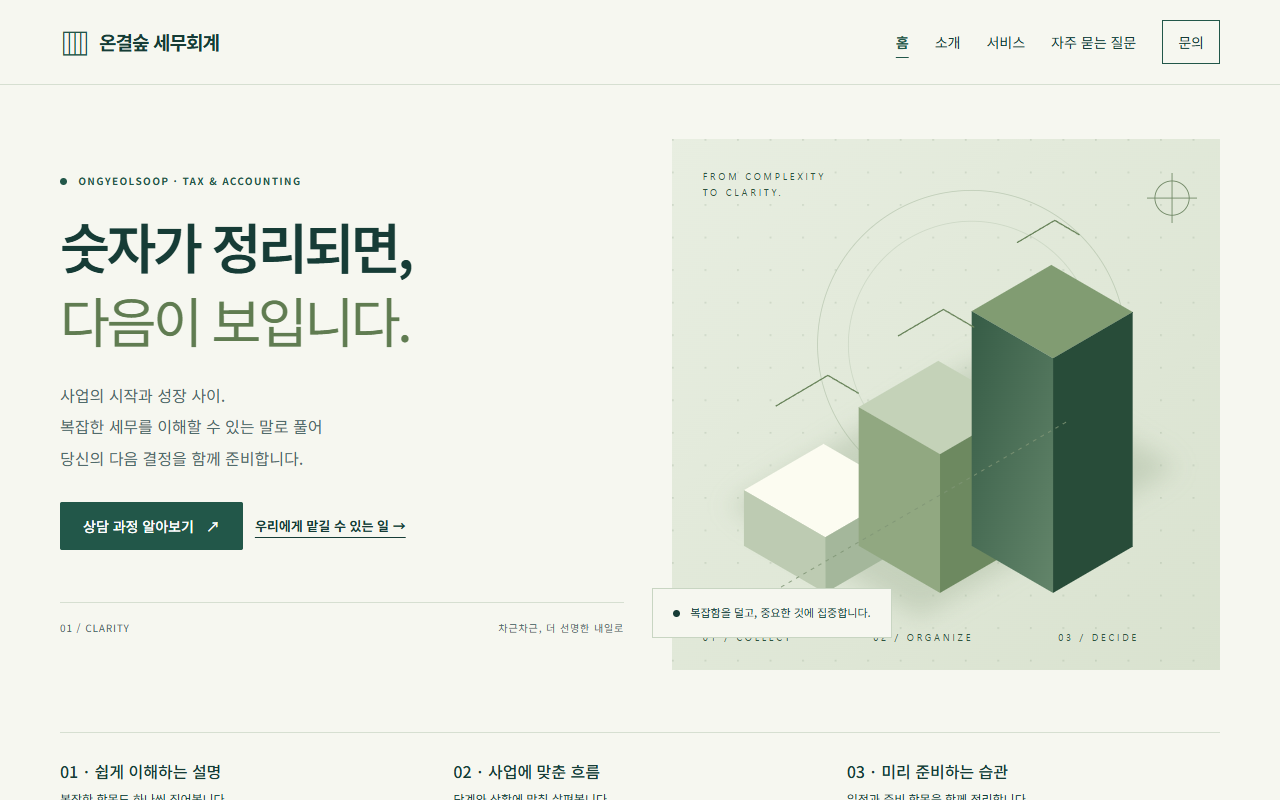
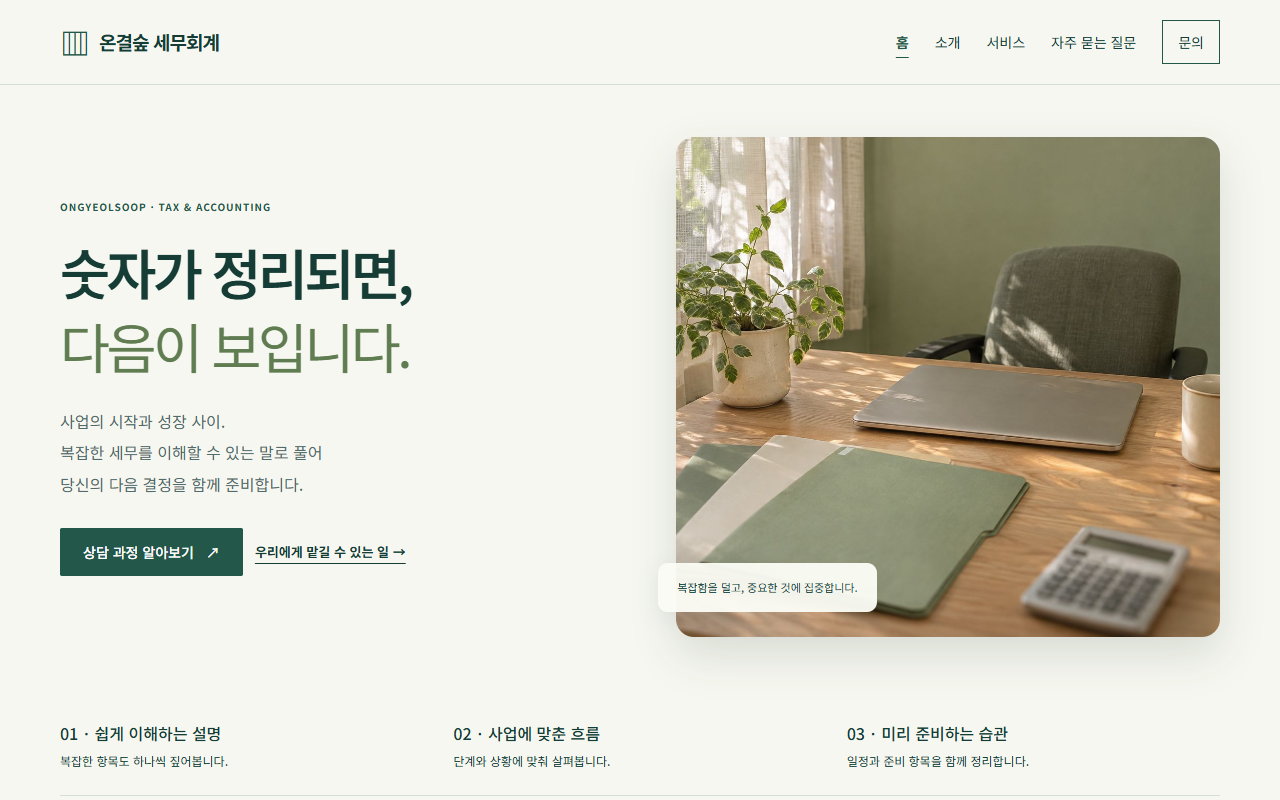
첫 화면과 소개·서비스·문의 쪽을 사진 중심으로 변경

diff --git a/tax.css b/tax.css
@@ -1,7 +1,11 @@
-.tax{--ink:#173b3c;--muted:#516b6b;--accent:#1d5550;--paper:#fdfcf8;--soft:#edf2ee;--line:#d8e0d9;--radius:4px}.tax .brand{letter-spacing:.02em}.tax nav a:last-child{border:1px solid var(--accent);padding:9px 15px}.tax-hero{display:grid;grid-template-columns:1.03fr 1fr;gap:62px;align-items:center;padding:54px 0 58px}.tax-hero h1{font-size:clamp(2.2rem,4vw,3.4rem);margin-bottom:26px}.tax-hero h1 em{font-style:normal;color:#8b7945}.tax-art{position:relative}.tax-art img{display:block;width:100%;border-radius:4px}.art-note{position:absolute;bottom:24px;left:-26px;background:var(--paper);border:1px solid var(--line);padding:17px 24px;box-shadow:0 8px 25px #173b3c10;font-size:13px}.art-note strong{display:block;letter-spacing:.12em;font-size:10px;margin-bottom:4px;color:#7a6c43}.tax-points{border-top:1px solid var(--line);border-bottom:1px solid var(--line);padding:20px 0;display:grid;grid-template-columns:repeat(3,1fr);gap:20px;font-size:12px}.tax-points strong{display:block;font-size:15px;margin-bottom:3px}.service-num{font-size:13px;letter-spacing:.1em;color:#71633c;margin-bottom:34px}.tax .panel h3{font-size:21px}.tax .panel p{font-size:14px}.text-link{font-size:13px;font-weight:700;text-decoration:underline;text-underline-offset:6px}.statement{font-size:clamp(1.8rem,3vw,2.7rem);max-width:760px;line-height:1.6;letter-spacing:-.05em}.step{padding:20px 0;border-top:1px solid var(--line)}.step strong{margin-right:20px;color:#756234}.faq-list{max-width:840px}.faq-list details{border-top:1px solid var(--line);padding:24px 0}.faq-list details:last-child{border-bottom:1px solid var(--line)}.faq-list summary{cursor:pointer;font-weight:700;font-size:17px;padding-right:20px}.faq-list details p{padding-top:18px;font-size:14px;color:var(--muted);max-width:700px}.contact-grid{display:grid;grid-template-columns:.75fr 1.2fr;gap:70px}.contact-grid aside{background:var(--soft);padding:32px;align-self:start}.contact-grid form{max-width:620px}.tax .site-footer{background:#173b3c;color:#f6f3e9}.tax .site-footer .muted{color:#c3d3cf}.wide-cta{display:flex;align-items:center;justify-content:space-between;gap:24px}.wide-cta h2{max-width:660px}@media(max-width:760px){.tax-hero{grid-template-columns:1fr;gap:32px;padding:40px 0}.tax-hero h1{font-size:2.35rem}.tax-art{max-width:500px}.art-note{left:12px;bottom:16px;padding:12px 18px}.tax-points{grid-template-columns:1fr;gap:14px}.tax-points div{padding-bottom:10px;border-bottom:1px solid var(--line)}.tax-points div:last-child{border:0;padding:0}.contact-grid{grid-template-columns:1fr;gap:32px}.wide-cta{align-items:start;flex-direction:column}.tax nav a:last-child{padding:0;border:0}}
+.tax{--ink:#173b3c;--muted:#516b6b;--accent:#1d5550;--paper:#fdfcf8;--soft:#edf2ee;--line:#d8e0d9;--radius:4px}.tax .brand{letter-spacing:.02em}.tax nav a:last-child{border:1px solid var(--accent);padding:9px 15px}.tax-hero{display:grid;grid-template-columns:1.03fr 1fr;gap:62px;align-items:center;padding:54px 0 58px}.tax-hero h1{font-size:clamp(2.2rem,4vw,3.4rem);margin-bottom:26px}.tax-hero h1 em{font-style:normal;color:#8b7945}.tax-photo{position:relative}.tax-photo img{display:block;width:100%;border-radius:4px}.art-note{position:absolute;bottom:24px;left:-26px;background:var(--paper);border:1px solid var(--line);padding:17px 24px;box-shadow:0 8px 25px #173b3c10;font-size:13px}.art-note strong{display:block;letter-spacing:.12em;font-size:10px;margin-bottom:4px;color:#7a6c43}.tax-points{border-top:1px solid var(--line);border-bottom:1px solid var(--line);padding:20px 0;display:grid;grid-template-columns:repeat(3,1fr);gap:20px;font-size:12px}.tax-points strong{display:block;font-size:15px;margin-bottom:3px}.service-num{font-size:13px;letter-spacing:.1em;color:#71633c;margin-bottom:34px}.tax .panel h3{font-size:21px}.tax .panel p{font-size:14px}.text-link{font-size:13px;font-weight:700;text-decoration:underline;text-underline-offset:6px}.statement{font-size:clamp(1.8rem,3vw,2.7rem);max-width:760px;line-height:1.6;letter-spacing:-.05em}.step{padding:20px 0;border-top:1px solid var(--line)}.step strong{margin-right:20px;color:#756234}.faq-list{max-width:840px}.faq-list details{border-top:1px solid var(--line);padding:24px 0}.faq-list details:last-child{border-bottom:1px solid var(--line)}.faq-list summary{cursor:pointer;font-weight:700;font-size:17px;padding-right:20px}.faq-list details p{padding-top:18px;font-size:14px;color:var(--muted);max-width:700px}.contact-grid{display:grid;grid-template-columns:.75fr 1.2fr;gap:70px}.contact-grid aside{background:var(--soft);padding:32px;align-self:start}.contact-grid form{max-width:620px}.tax .site-footer{background:#173b3c;color:#f6f3e9}.tax .site-footer .muted{color:#c3d3cf}.wide-cta{display:flex;align-items:center;justify-content:space-between;gap:24px}.wide-cta h2{max-width:660px}@media(max-width:760px){.tax-hero{grid-template-columns:1fr;gap:32px;padding:40px 0}.tax-hero h1{font-size:2.35rem}.tax-photo{max-width:500px}.art-note{left:12px;bottom:16px;padding:12px 18px}.tax-points{grid-template-columns:1fr;gap:14px}.tax-points div{padding-bottom:10px;border-bottom:1px solid var(--line)}.tax-points div:last-child{border:0;padding:0}.contact-grid{grid-template-columns:1fr;gap:32px}.wide-cta{align-items:start;flex-direction:column}.tax nav a:last-child{padding:0;border:0}}
 
-.tax{--ink:#163c36;--accent:#225749;--paper:#f6f7f0;--soft:#e8eee5;--line:#d6dfd1;--radius:2px}.tax .brand{font-weight:700;letter-spacing:-.05em}.tax-hero{grid-template-columns:1.03fr 1fr;gap:48px;padding:54px 0 62px;min-height:620px}.tax-hero h1{font-size:clamp(34px,4.25vw,56px);font-weight:600;line-height:1.35;letter-spacing:-.065em;margin-bottom:24px}.tax-hero h1 em{color:#607c51;font-weight:400}.tax-art{align-self:stretch;display:flex;align-items:center;min-width:0}.tax-art img{width:100%;border-radius:0}.tax .art-note{left:-20px;bottom:32px;background:#f6f7f0;padding:14px 20px;box-shadow:none;border:1px solid #c8d5c2;font-size:11px}.tax .btn{border-radius:2px;font-weight:500}.tax .tax-points{grid-template-columns:repeat(3,1fr);padding:24px 0}.tax .tax-points strong{font-size:16px;font-weight:500}.tax .service-num{font-family:Georgia,serif;font-size:42px;margin-bottom:25px;color:#6a8263}.tax .card{border-radius:2px;box-shadow:none;border-color:var(--line);padding:32px}.tax .card h3{font-weight:500;font-size:23px}.tax .section-head h2{font-weight:500}.tax .section.soft{background:#e8eee5}.tax .site-footer{background:#173d35;color:#f6f7f0}.tax .site-footer .muted{color:#bfd0c2}.tax .site-footer .brand{color:#fff}.tax .eyebrow{font-size:10px;letter-spacing:.14em}.tax .nav-toggle{border-color:#7c9481}.tax .contact-aside{border-radius:0}
+.tax{--ink:#163c36;--accent:#225749;--paper:#f6f7f0;--soft:#e8eee5;--line:#d6dfd1;--radius:2px}.tax .brand{font-weight:700;letter-spacing:-.05em}.tax-hero{grid-template-columns:1.03fr 1fr;gap:48px;padding:54px 0 62px;min-height:620px}.tax-hero h1{font-size:clamp(34px,4.25vw,56px);font-weight:600;line-height:1.35;letter-spacing:-.065em;margin-bottom:24px}.tax-hero h1 em{color:#607c51;font-weight:400}.tax-photo{align-self:stretch;display:flex;align-items:center;min-width:0}.tax-photo img{width:100%;border-radius:0}.tax .art-note{left:-20px;bottom:32px;background:#f6f7f0;padding:14px 20px;box-shadow:none;border:1px solid #c8d5c2;font-size:11px}.tax .btn{border-radius:2px;font-weight:500}.tax .tax-points{grid-template-columns:repeat(3,1fr);padding:24px 0}.tax .tax-points strong{font-size:16px;font-weight:500}.tax .service-num{font-family:Georgia,serif;font-size:42px;margin-bottom:25px;color:#6a8263}.tax .card{border-radius:2px;box-shadow:none;border-color:var(--line);padding:32px}.tax .card h3{font-weight:500;font-size:23px}.tax .section-head h2{font-weight:500}.tax .section.soft{background:#e8eee5}.tax .site-footer{background:#173d35;color:#f6f7f0}.tax .site-footer .muted{color:#bfd0c2}.tax .site-footer .brand{color:#fff}.tax .eyebrow{font-size:10px;letter-spacing:.14em}.tax .nav-toggle{border-color:#7c9481}.tax .contact-aside{border-radius:0}
 @media(max-width:900px){.tax-hero{gap:24px}.tax-hero h1{font-size:42px}.tax .art-note{left:-8px;font-size:10px;padding:10px}.tax .hero-index{display:block}.tax .hero-index span{display:block}}
-@media(max-width:760px){.tax-hero{grid-template-columns:1fr;gap:18px;padding:40px 0 28px;min-height:0}.tax-hero h1{font-size:37px;line-height:1.4}.tax-hero .lead br{display:none}.tax .hero-index{display:none}.tax-art{max-width:100%;width:100%;height:325px}.tax-art img{height:325px;object-fit:cover}.tax .art-note{bottom:6px;left:12px;max-width:calc(100% - 24px)}.tax .tax-points{grid-template-columns:1fr;gap:14px}.tax .card{padding:25px}.tax .actions{margin-top:24px;gap:20px}.tax .btn{font-size:12px}.tax .eyebrow{font-size:9px}}
+@media(max-width:760px){.tax-hero{grid-template-columns:1fr;gap:18px;padding:40px 0 28px;min-height:0}.tax-hero h1{font-size:37px;line-height:1.4}.tax-hero .lead br{display:none}.tax .hero-index{display:none}.tax-photo{max-width:100%;width:100%;height:325px}.tax-photo img{height:325px;object-fit:cover}.tax .art-note{bottom:6px;left:12px;max-width:calc(100% - 24px)}.tax .tax-points{grid-template-columns:1fr;gap:14px}.tax .card{padding:25px}.tax .actions{margin-top:24px;gap:20px}.tax .btn{font-size:12px}.tax .eyebrow{font-size:9px}}
 
 .tax .service-num{display:flex;align-items:center;gap:18px;font-size:38px;letter-spacing:0}.tax .service-label{font-family:Arial,sans-serif;font-size:10px;letter-spacing:.13em}.tax .panel{min-width:0}
+
+.tax-hero{gap:56px;min-height:610px;padding:48px 0 54px}.tax-photo{position:relative;display:block;align-self:center;min-width:0}.tax-photo .hero-photo{display:block;width:100%;height:500px;object-fit:cover;object-position:52% 52%;border-radius:18px;box-shadow:0 18px 42px #1b362623}.tax .art-note{left:-18px;bottom:25px;max-width:92%;background:#fbfcf5f5;border:0;border-radius:10px;padding:15px 19px;box-shadow:0 6px 22px #173b3c12}.page-photo{margin:0 auto}.page-photo img{display:block;width:100%;height:380px;object-fit:cover;object-position:center;border-radius:16px;box-shadow:0 8px 28px #173b3c0e}.page-photo.contact-photo img{height:340px;object-position:center 56%}.page-photo.services-photo img{object-position:center 52%}.tax .tax-points{border-top:0}.tax .eyebrow{letter-spacing:.1em}
+@media(max-width:900px){.tax-hero{gap:28px}.tax-photo .hero-photo{height:465px}}
+@media(max-width:760px){.tax-hero{padding:32px 0 30px;gap:26px;min-height:0}.tax-photo{width:100%;height:auto;max-width:none}.tax-photo .hero-photo{height:315px;border-radius:14px;object-position:55% center}.tax .art-note{left:13px;bottom:14px;max-width:calc(100% - 26px);font-size:10px;padding:12px 14px}.page-photo img,.page-photo.contact-photo img{height:240px;border-radius:12px}.page-photo.services-photo img{object-position:65% center}}

diff --git a/contact.html b/contact.html
@@ -1,3 +1,3 @@
 <!doctype html>
 <html lang="ko"><head><meta charset="utf-8"><meta name="viewport" content="width=device-width,initial-scale=1"><title>문의 과정 체험 | 온결숲 세무회계</title><meta name="description" content="온결숲 세무회계. 사무소 소개·서비스·자주 묻는 질문과 문의 안내."><meta property="og:title" content="문의 과정 체험 | 온결숲 세무회계"><meta property="og:description" content="온결숲 세무회계. 사무소 소개·서비스·자주 묻는 질문과 문의 안내."><meta property="og:type" content="website"><meta property="og:locale" content="ko_KR"><meta property="og:image" content="thumb.png"><meta property="og:image:width" content="1280"><meta property="og:image:height" content="800"><link rel="icon" href="assets/mark.svg" type="image/svg+xml"><link rel="stylesheet" href="assets/base.css"><link rel="stylesheet" href="tax.css"><script defer src="assets/common.js"></script><script defer src="tax.js"></script><link rel="preconnect" href="https://fonts.googleapis.com"><link rel="preconnect" href="https://fonts.gstatic.com" crossorigin><link href="https://fonts.googleapis.com/css2?family=Noto+Sans+KR:wght@400;500;600;700;800;900&display=swap" rel="stylesheet"></head>
-<body class="tax"><a class="skip" href="#main">본문으로 건너뛰기</a><header class="site-header"><div class="wrap header-inner"><a class="brand" href="index.html"><span class="brand-mark" aria-hidden="true">▥</span>온결숲 세무회계</a><button class="nav-toggle" aria-expanded="false" aria-controls="site-nav" type="button">메뉴</button><nav id="site-nav" aria-label="주 메뉴"><a href="index.html">홈</a><a href="about.html">소개</a><a href="services.html">서비스</a><a href="faq.html">자주 묻는 질문</a><a href="contact.html" aria-current="page">문의</a></nav></div></header><main id="main"><section class="page-intro wrap"><p class="eyebrow">CONTACT</p><h1>첫 질문을 남기는 곳.</h1><p class="lead">아래는 문의 과정을 보여주는 체험 화면입니다.<br>실제 개인정보 대신 표시된 예시를 사용해 주세요.</p></section><section class="section wrap contact-grid"><aside><h2>차분하게,<br>하나씩.</h2><p>주제를 고르고 예시 내용을 넣으면 문의 화면의 동작을 확인할 수 있습니다.</p><hr class="divider"><p class="small">전화 02-000-0000<br>메일 hello@example.com<br>주소 서울시 ○○구 (샘플)</p><p class="small muted">모두 가짜 연락처이며 연결되지 않습니다.</p></aside><div><p class="notice">실제 이름·연락처·사업 자료를 입력하지 마세요. 내용은 저장하거나 전송하지 않습니다.</p><form id="contact-form" novalidate><label class="field">체험용 이름<input name="nickname" required value="샘플 방문자" maxlength="30" autocomplete="off" aria-describedby="name-help"></label><p class="small muted" id="name-help">가상 이름만 사용해 주세요.</p><label class="field">체험용 이메일<input name="email" type="email" required value="hello@example.com" autocomplete="off" maxlength="100"></label><label class="field">문의 주제<select name="topic" required><option value="">주제를 선택해 주세요</option><option>개업 안내</option><option>기장 안내</option><option>사업 점검</option></select></label><label class="field">예시 문의 내용<textarea name="message" required minlength="5" maxlength="1000" rows="5" placeholder="예: 기장 서비스의 진행 과정이 궁금합니다."></textarea></label><div class="hp" aria-hidden="true"><label>웹사이트 주소 (비워 두세요)<input name="website" tabindex="-1" autocomplete="off"></label></div><label class="check"><input name="consent" type="checkbox" required><span>실제 전송이 없는 데모 화면임을 확인했습니다.</span></label><div class="actions"><button class="btn" type="submit">문의 과정 체험하기 ↗</button><button class="btn outline" type="button" id="fill-example">예시 채우기</button></div><p id="form-result" class="status" role="status" tabindex="-1" hidden></p></form></div></section></main><footer class="site-footer"><div class="wrap"><div class="footer-row"><a class="brand" href="index.html">온결숲 세무회계</a></div><p>포트폴리오 샘플 · 가상 업체입니다</p><p class="muted small">전화 02-000-0000 · hello@example.com · 서울시 ○○구 (샘플)</p></div></footer><div class="toast" id="toast" role="status" aria-live="polite" hidden></div></body></html>
+<body class="tax"><a class="skip" href="#main">본문으로 건너뛰기</a><header class="site-header"><div class="wrap header-inner"><a class="brand" href="index.html"><span class="brand-mark" aria-hidden="true">▥</span>온결숲 세무회계</a><button class="nav-toggle" aria-expanded="false" aria-controls="site-nav" type="button">메뉴</button><nav id="site-nav" aria-label="주 메뉴"><a href="index.html">홈</a><a href="about.html">소개</a><a href="services.html">서비스</a><a href="faq.html">자주 묻는 질문</a><a href="contact.html" aria-current="page">문의</a></nav></div></header><main id="main"><section class="page-intro wrap"><p class="eyebrow">CONTACT</p><h1>첫 질문을 남기는 곳.</h1><p class="lead">아래는 문의 과정을 보여주는 체험 화면입니다.<br>실제 개인정보 대신 표시된 예시를 사용해 주세요.</p></section><figure class="wrap page-photo contact-photo"><img src="images/contact.jpg" width="1536" height="1024" alt="밝은 유리 출입문 옆 의자와 화분이 놓인 대기 공간" loading="lazy"></figure><section class="section wrap contact-grid"><aside><h2>차분하게,<br>하나씩.</h2><p>주제를 고르고 예시 내용을 넣으면 문의 화면의 동작을 확인할 수 있습니다.</p><hr class="divider"><p class="small">전화 02-000-0000<br>메일 hello@example.com<br>주소 서울시 ○○구 (샘플)</p><p class="small muted">모두 가짜 연락처이며 연결되지 않습니다.</p></aside><div><p class="notice">실제 이름·연락처·사업 자료를 입력하지 마세요. 내용은 저장하거나 전송하지 않습니다.</p><form id="contact-form" novalidate><label class="field">체험용 이름<input name="nickname" required value="샘플 방문자" maxlength="30" autocomplete="off" aria-describedby="name-help"></label><p class="small muted" id="name-help">가상 이름만 사용해 주세요.</p><label class="field">체험용 이메일<input name="email" type="email" required value="hello@example.com" autocomplete="off" maxlength="100"></label><label class="field">문의 주제<select name="topic" required><option value="">주제를 선택해 주세요</option><option>개업 안내</option><option>기장 안내</option><option>사업 점검</option></select></label><label class="field">예시 문의 내용<textarea name="message" required minlength="5" maxlength="1000" rows="5" placeholder="예: 기장 서비스의 진행 과정이 궁금합니다."></textarea></label><div class="hp" aria-hidden="true"><label>웹사이트 주소 (비워 두세요)<input name="website" tabindex="-1" autocomplete="off"></label></div><label class="check"><input name="consent" type="checkbox" required><span>실제 전송이 없는 데모 화면임을 확인했습니다.</span></label><div class="actions"><button class="btn" type="submit">문의 과정 체험하기 ↗</button><button class="btn outline" type="button" id="fill-example">예시 채우기</button></div><p id="form-result" class="status" role="status" tabindex="-1" hidden></p></form></div></section></main><footer class="site-footer"><div class="wrap"><div class="footer-row"><a class="brand" href="index.html">온결숲 세무회계</a></div><p>포트폴리오 샘플 · 가상 업체입니다</p><p class="muted small">전화 02-000-0000 · hello@example.com · 서울시 ○○구 (샘플)</p></div></footer><div class="toast" id="toast" role="status" aria-live="polite" hidden></div></body></html>

diff --git a/services.html b/services.html
@@ -1,3 +1,3 @@
 <!doctype html>
 <html lang="ko"><head><meta charset="utf-8"><meta name="viewport" content="width=device-width,initial-scale=1"><title>서비스 안내 | 온결숲 세무회계</title><meta name="description" content="온결숲 세무회계. 사무소 소개·서비스·자주 묻는 질문과 문의 안내."><meta property="og:title" content="서비스 안내 | 온결숲 세무회계"><meta property="og:description" content="온결숲 세무회계. 사무소 소개·서비스·자주 묻는 질문과 문의 안내."><meta property="og:type" content="website"><meta property="og:locale" content="ko_KR"><meta property="og:image" content="thumb.png"><meta property="og:image:width" content="1280"><meta property="og:image:height" content="800"><link rel="icon" href="assets/mark.svg" type="image/svg+xml"><link rel="stylesheet" href="assets/base.css"><link rel="stylesheet" href="tax.css"><script defer src="assets/common.js"></script><link rel="preconnect" href="https://fonts.googleapis.com"><link rel="preconnect" href="https://fonts.gstatic.com" crossorigin><link href="https://fonts.googleapis.com/css2?family=Noto+Sans+KR:wght@400;500;600;700;800;900&display=swap" rel="stylesheet"></head>
-<body class="tax"><a class="skip" href="#main">본문으로 건너뛰기</a><header class="site-header"><div class="wrap header-inner"><a class="brand" href="index.html"><span class="brand-mark" aria-hidden="true">▥</span>온결숲 세무회계</a><button class="nav-toggle" aria-expanded="false" aria-controls="site-nav" type="button">메뉴</button><nav id="site-nav" aria-label="주 메뉴"><a href="index.html">홈</a><a href="about.html">소개</a><a href="services.html" aria-current="page">서비스</a><a href="faq.html">자주 묻는 질문</a><a href="contact.html">문의</a></nav></div></header><main id="main"><section class="page-intro wrap"><p class="eyebrow">SERVICES</p><h1>사업의 단계에 맞게,<br>필요한 것부터 차근차근.</h1><p class="lead">아래 내용은 웹사이트 구성을 보여주는 예시입니다. 실제 세무 자문이나 업무 제공 안내가 아닙니다.</p></section><section class="section wrap"><div class="grid three"><article id="start" class="panel"><p class="service-num">01 / FOUNDATION</p><h2>개업 안내</h2><p>첫 준비가 막막할 때</p><ul><li>사업 형태 관련 질문 정리</li><li>시작 단계의 준비 목록 안내</li><li>기록과 증빙 관리 흐름 소개</li></ul><a href="contact.html" class="text-link">문의 과정 체험 ↗</a></article><article id="routine" class="panel"><p class="service-num">02 / ROUTINE</p><h2>기장 안내</h2><p>꾸준한 관리가 필요할 때</p><ul><li>월별 자료 정리 과정 소개</li><li>일정 확인 흐름 안내</li><li>사업 기록 검토 방식 소개</li></ul><a href="contact.html" class="text-link">문의 과정 체험 ↗</a></article><article id="review" class="panel"><p class="service-num">03 / NEXT STEP</p><h2>사업 점검</h2><p>변화를 앞두고 있을 때</p><ul><li>현재 기록의 확인 목록 정리</li><li>변경 사항에 관한 질문 수집</li><li>다음 단계 준비 과정 소개</li></ul><a href="contact.html" class="text-link">문의 과정 체험 ↗</a></article></div></section><section class="section soft"><div class="wrap"><h2>준비할 것이 궁금하신가요?</h2><p>자주 묻는 질문에서 일반적인 진행 과정을 살펴보세요.</p><a class="btn" href="faq.html">자주 묻는 질문 보기 ↗</a></div></section></main><footer class="site-footer"><div class="wrap"><div class="footer-row"><a class="brand" href="index.html">온결숲 세무회계</a></div><p>포트폴리오 샘플 · 가상 업체입니다</p><p class="muted small">전화 02-000-0000 · hello@example.com · 서울시 ○○구 (샘플)</p></div></footer><div class="toast" id="toast" role="status" aria-live="polite" hidden></div></body></html>
+<body class="tax"><a class="skip" href="#main">본문으로 건너뛰기</a><header class="site-header"><div class="wrap header-inner"><a class="brand" href="index.html"><span class="brand-mark" aria-hidden="true">▥</span>온결숲 세무회계</a><button class="nav-toggle" aria-expanded="false" aria-controls="site-nav" type="button">메뉴</button><nav id="site-nav" aria-label="주 메뉴"><a href="index.html">홈</a><a href="about.html">소개</a><a href="services.html" aria-current="page">서비스</a><a href="faq.html">자주 묻는 질문</a><a href="contact.html">문의</a></nav></div></header><main id="main"><section class="page-intro wrap"><p class="eyebrow">SERVICES</p><h1>사업의 단계에 맞게,<br>필요한 것부터 차근차근.</h1><p class="lead">아래 내용은 웹사이트 구성을 보여주는 예시입니다. 실제 세무 자문이나 업무 제공 안내가 아닙니다.</p></section><figure class="wrap page-photo services-photo"><img src="images/services.jpg" width="1536" height="1024" alt="서류와 영수증을 정리하는 손이 놓인 책상" loading="lazy"></figure><section class="section wrap"><div class="grid three"><article id="start" class="panel"><p class="service-num">01 / FOUNDATION</p><h2>개업 안내</h2><p>첫 준비가 막막할 때</p><ul><li>사업 형태 관련 질문 정리</li><li>시작 단계의 준비 목록 안내</li><li>기록과 증빙 관리 흐름 소개</li></ul><a href="contact.html" class="text-link">문의 과정 체험 ↗</a></article><article id="routine" class="panel"><p class="service-num">02 / ROUTINE</p><h2>기장 안내</h2><p>꾸준한 관리가 필요할 때</p><ul><li>월별 자료 정리 과정 소개</li><li>일정 확인 흐름 안내</li><li>사업 기록 검토 방식 소개</li></ul><a href="contact.html" class="text-link">문의 과정 체험 ↗</a></article><article id="review" class="panel"><p class="service-num">03 / NEXT STEP</p><h2>사업 점검</h2><p>변화를 앞두고 있을 때</p><ul><li>현재 기록의 확인 목록 정리</li><li>변경 사항에 관한 질문 수집</li><li>다음 단계 준비 과정 소개</li></ul><a href="contact.html" class="text-link">문의 과정 체험 ↗</a></article></div></section><section class="section soft"><div class="wrap"><h2>준비할 것이 궁금하신가요?</h2><p>자주 묻는 질문에서 일반적인 진행 과정을 살펴보세요.</p><a class="btn" href="faq.html">자주 묻는 질문 보기 ↗</a></div></section></main><footer class="site-footer"><div class="wrap"><div class="footer-row"><a class="brand" href="index.html">온결숲 세무회계</a></div><p>포트폴리오 샘플 · 가상 업체입니다</p><p class="muted small">전화 02-000-0000 · hello@example.com · 서울시 ○○구 (샘플)</p></div></footer><div class="toast" id="toast" role="status" aria-live="polite" hidden></div></body></html>

diff --git a/about.html b/about.html
@@ -1,3 +1,3 @@
 <!doctype html>
 <html lang="ko"><head><meta charset="utf-8"><meta name="viewport" content="width=device-width,initial-scale=1"><title>사무소 소개 | 온결숲 세무회계</title><meta name="description" content="온결숲 세무회계. 사무소 소개·서비스·자주 묻는 질문과 문의 안내."><meta property="og:title" content="사무소 소개 | 온결숲 세무회계"><meta property="og:description" content="온결숲 세무회계. 사무소 소개·서비스·자주 묻는 질문과 문의 안내."><meta property="og:type" content="website"><meta property="og:locale" content="ko_KR"><meta property="og:image" content="thumb.png"><meta property="og:image:width" content="1280"><meta property="og:image:height" content="800"><link rel="icon" href="assets/mark.svg" type="image/svg+xml"><link rel="stylesheet" href="assets/base.css"><link rel="stylesheet" href="tax.css"><script defer src="assets/common.js"></script><link rel="preconnect" href="https://fonts.googleapis.com"><link rel="preconnect" href="https://fonts.gstatic.com" crossorigin><link href="https://fonts.googleapis.com/css2?family=Noto+Sans+KR:wght@400;500;600;700;800;900&display=swap" rel="stylesheet"></head>
-<body class="tax"><a class="skip" href="#main">본문으로 건너뛰기</a><header class="site-header"><div class="wrap header-inner"><a class="brand" href="index.html"><span class="brand-mark" aria-hidden="true">▥</span>온결숲 세무회계</a><button class="nav-toggle" aria-expanded="false" aria-controls="site-nav" type="button">메뉴</button><nav id="site-nav" aria-label="주 메뉴"><a href="index.html">홈</a><a href="about.html" aria-current="page">소개</a><a href="services.html">서비스</a><a href="faq.html">자주 묻는 질문</a><a href="contact.html">문의</a></nav></div></header><main id="main"><section class="page-intro wrap"><p class="eyebrow">ABOUT US</p><h1>알기 쉬운 설명,<br>차분하게 쌓이는 신뢰.</h1><p class="lead">온결숲은 복잡한 기록을 하나의 흐름으로 정리한다는 생각에서 출발한 가상 세무회계 브랜드입니다.</p></section><section class="section soft"><div class="wrap"><p class="statement">숫자만 전달하기보다<br>그 숫자가 만들어진 이유를<br>함께 이해하는 시간을 생각합니다.</p><div class="grid three"><article class="panel"><h3>먼저 듣습니다</h3><p>사업의 단계, 궁금한 점, 필요한 업무의 범위를 먼저 확인합니다.</p></article><article class="panel"><h3>명료하게 정리합니다</h3><p>필요한 준비 항목과 진행 순서를 나누어 안내하는 방식을 제안합니다.</p></article><article class="panel"><h3>기록을 남깁니다</h3><p>다음에 다시 살펴볼 수 있도록 질문과 답을 한곳에 정리합니다.</p></article></div></div></section><section class="section wrap"><p class="eyebrow">HOW WE WORK</p><h2>함께 살펴보는 순서</h2><div class="step"><strong>01</strong>궁금한 점과 현재 상황 정리</div><div class="step"><strong>02</strong>업무 범위와 준비 항목 안내</div><div class="step"><strong>03</strong>일정에 맞춘 진행 과정 공유</div><p class="small muted" style="margin-top:24px">업무 범위와 일정을 이해할 수 있도록 진행 단계마다 설명합니다.</p><a class="btn outline" href="services.html">서비스 살펴보기 ↗</a></section></main><footer class="site-footer"><div class="wrap"><div class="footer-row"><a class="brand" href="index.html">온결숲 세무회계</a></div><p>포트폴리오 샘플 · 가상 업체입니다</p><p class="muted small">전화 02-000-0000 · hello@example.com · 서울시 ○○구 (샘플)</p></div></footer><div class="toast" id="toast" role="status" aria-live="polite" hidden></div></body></html>
+<body class="tax"><a class="skip" href="#main">본문으로 건너뛰기</a><header class="site-header"><div class="wrap header-inner"><a class="brand" href="index.html"><span class="brand-mark" aria-hidden="true">▥</span>온결숲 세무회계</a><button class="nav-toggle" aria-expanded="false" aria-controls="site-nav" type="button">메뉴</button><nav id="site-nav" aria-label="주 메뉴"><a href="index.html">홈</a><a href="about.html" aria-current="page">소개</a><a href="services.html">서비스</a><a href="faq.html">자주 묻는 질문</a><a href="contact.html">문의</a></nav></div></header><main id="main"><section class="page-intro wrap"><p class="eyebrow">ABOUT US</p><h1>알기 쉬운 설명,<br>차분하게 쌓이는 신뢰.</h1><p class="lead">온결숲은 복잡한 기록을 하나의 흐름으로 정리한다는 생각에서 출발한 가상 세무회계 브랜드입니다.</p></section><figure class="wrap page-photo about-photo"><img src="images/about.jpg" width="1536" height="1024" alt="상담실 테이블과 마주 놓인 두 개의 의자" loading="lazy"></figure><section class="section soft"><div class="wrap"><p class="statement">숫자만 전달하기보다<br>그 숫자가 만들어진 이유를<br>함께 이해하는 시간을 생각합니다.</p><div class="grid three"><article class="panel"><h3>먼저 듣습니다</h3><p>사업의 단계, 궁금한 점, 필요한 업무의 범위를 먼저 확인합니다.</p></article><article class="panel"><h3>명료하게 정리합니다</h3><p>필요한 준비 항목과 진행 순서를 나누어 안내하는 방식을 제안합니다.</p></article><article class="panel"><h3>기록을 남깁니다</h3><p>다음에 다시 살펴볼 수 있도록 질문과 답을 한곳에 정리합니다.</p></article></div></div></section><section class="section wrap"><p class="eyebrow">HOW WE WORK</p><h2>함께 살펴보는 순서</h2><div class="step"><strong>01</strong>궁금한 점과 현재 상황 정리</div><div class="step"><strong>02</strong>업무 범위와 준비 항목 안내</div><div class="step"><strong>03</strong>일정에 맞춘 진행 과정 공유</div><p class="small muted" style="margin-top:24px">업무 범위와 일정을 이해할 수 있도록 진행 단계마다 설명합니다.</p><a class="btn outline" href="services.html">서비스 살펴보기 ↗</a></section></main><footer class="site-footer"><div class="wrap"><div class="footer-row"><a class="brand" href="index.html">온결숲 세무회계</a></div><p>포트폴리오 샘플 · 가상 업체입니다</p><p class="muted small">전화 02-000-0000 · hello@example.com · 서울시 ○○구 (샘플)</p></div></footer><div class="toast" id="toast" role="status" aria-live="polite" hidden></div></body></html>

diff --git a/index.html b/index.html
@@ -1,7 +1,7 @@
 <!doctype html>
 <html lang="ko"><head><meta charset="utf-8"><meta name="viewport" content="width=device-width,initial-scale=1"><title>사업의 다음을 함께 정리합니다 | 온결숲 세무회계</title><meta name="description" content="온결숲 세무회계. 사무소 소개·서비스·자주 묻는 질문과 문의 안내."><meta property="og:title" content="사업의 다음을 함께 정리합니다 | 온결숲 세무회계"><meta property="og:description" content="온결숲 세무회계. 사무소 소개·서비스·자주 묻는 질문과 문의 안내."><meta property="og:type" content="website"><meta property="og:locale" content="ko_KR"><meta property="og:image" content="thumb.png"><meta property="og:image:width" content="1280"><meta property="og:image:height" content="800"><link rel="icon" href="assets/mark.svg" type="image/svg+xml"><link rel="stylesheet" href="assets/base.css"><link rel="stylesheet" href="tax.css"><script defer src="assets/common.js"></script><link rel="preconnect" href="https://fonts.googleapis.com"><link rel="preconnect" href="https://fonts.gstatic.com" crossorigin><link href="https://fonts.googleapis.com/css2?family=Noto+Sans+KR:wght@400;500;600;700;800;900&display=swap" rel="stylesheet"></head>
 <body class="tax"><a class="skip" href="#main">본문으로 건너뛰기</a><header class="site-header"><div class="wrap header-inner"><a class="brand" href="index.html"><span class="brand-mark" aria-hidden="true">▥</span>온결숲 세무회계</a><button class="nav-toggle" aria-expanded="false" aria-controls="site-nav" type="button">메뉴</button><nav id="site-nav" aria-label="주 메뉴"><a href="index.html" aria-current="page">홈</a><a href="about.html">소개</a><a href="services.html">서비스</a><a href="faq.html">자주 묻는 질문</a><a href="contact.html">문의</a></nav></div></header><main id="main">
-<section class="tax-hero wrap"><div class="hero-copy"><p class="eyebrow"><span class="line-dot"></span> ONGYEOLSOOP · TAX & ACCOUNTING</p><h1>숫자가 정리되면,<br><em>다음이 보입니다.</em></h1><p class="lead">사업의 시작과 성장 사이.<br> 복잡한 세무를 이해할 수 있는 말로 풀어<br> 당신의 다음 결정을 함께 준비합니다.</p><div class="actions"><a class="btn" href="contact.html">상담 과정 알아보기 <span>↗</span></a><a class="text-link" href="services.html">우리에게 맡길 수 있는 일 →</a></div><div class="hero-index"><span>01 / CLARITY</span><span>차근차근, 더 선명한 내일로</span></div></div><div class="tax-art"><img src="assets/tax.svg" width="640" height="620" alt="자료에서 판단까지 세 단계를 표현한 녹색 기하학 도해" fetchpriority="high"><div class="art-note"><span class="line-dot"></span> 복잡함을 덜고, 중요한 것에 집중합니다.</div></div></section>
+<section class="tax-hero wrap"><div class="hero-copy"><p class="eyebrow"> ONGYEOLSOOP · TAX & ACCOUNTING</p><h1>숫자가 정리되면,<br><em>다음이 보입니다.</em></h1><p class="lead">사업의 시작과 성장 사이.<br> 복잡한 세무를 이해할 수 있는 말로 풀어<br> 당신의 다음 결정을 함께 준비합니다.</p><div class="actions"><a class="btn" href="contact.html">상담 과정 알아보기 <span>↗</span></a><a class="text-link" href="services.html">우리에게 맡길 수 있는 일 →</a></div></div><div class="tax-photo"><img class="hero-photo" src="images/hero.jpg" width="1536" height="1024" alt="자연광이 드는 창가 책상 위의 노트북과 서류철, 커피와 화분" fetchpriority="high"><div class="art-note"> 복잡함을 덜고, 중요한 것에 집중합니다.</div></div></section>
 <div class="wrap tax-points"><div><strong>01 · 쉽게 이해하는 설명</strong>복잡한 항목도 하나씩 짚어봅니다.</div><div><strong>02 · 사업에 맞춘 흐름</strong>단계와 상황에 맞춰 살펴봅니다.</div><div><strong>03 · 미리 준비하는 습관</strong>일정과 준비 항목을 함께 정리합니다.</div></div>
 <section class="section"><div class="wrap"><div class="section-head"><div><p class="eyebrow">OUR SERVICES</p><h2>지금, 어떤 도움이 필요하세요?</h2></div><a class="text-link" href="services.html">서비스 자세히 보기 ↗</a></div><div class="grid three"><article class="panel"><div class="service-num"><span>01</span><span class="service-label">FOUNDATION</span></div><h3>사업의 첫걸음</h3><p>사업 형태와 기본 준비 항목을 정리하는 시작 단계 안내입니다.</p><a class="text-link" href="services.html#start">개업 안내 ↗</a></article><article class="panel"><div class="service-num"><span>02</span><span class="service-label">ROUTINE</span></div><h3>매월의 기록</h3><p>자료 정리부터 신고 일정까지, 반복되는 업무의 흐름을 소개합니다.</p><a class="text-link" href="services.html#routine">기장 안내 ↗</a></article><article class="panel"><div class="service-num"><span>03</span><span class="service-label">NEXT STEP</span></div><h3>다음을 위한 점검</h3><p>사업의 변화 시점에 확인할 기록과 질문을 함께 살펴봅니다.</p><a class="text-link" href="services.html#review">점검 안내 ↗</a></article></div></div></section>
 <section class="section soft"><div class="wrap wide-cta"><div><p class="eyebrow">START A CONVERSATION</p><h2>좋은 정리는,<br>작은 질문에서 시작됩니다.</h2><p class="muted">문의 화면에서 상담 요청 과정을 체험해 보세요.</p></div><a class="btn" href="contact.html">문의 화면 체험하기 ↗</a></div></section></main><footer class="site-footer"><div class="wrap"><div class="footer-row"><a class="brand" href="index.html">온결숲 세무회계</a></div><p>포트폴리오 샘플 · 가상 업체입니다</p><p class="muted small">전화 02-000-0000 · hello@example.com · 서울시 ○○구 (샘플)</p></div></footer><div class="toast" id="toast" role="status" aria-live="polite" hidden></div></body></html>

diff --git a/README.md b/README.md
@@ -2,7 +2,7 @@
 
 가상 업체 포트폴리오 샘플입니다. 실제 업체의 영업·상담·모집·서비스가 아닙니다.
 
-세무회계 사무소를 가정한 5쪽 소개 홈페이지. 차분한 녹색과 정리의 단계를 표현한 기하 도해를 사용합니다.
+세무회계 사무소를 가정한 5쪽 소개 홈페이지. 차분한 녹색과 따뜻한 베이지로 구성합니다.
 
 ## 쪽 목록
 
@@ -28,7 +28,9 @@ python -m http.server 8000 --bind 127.0.0.1
 
 ## 사용 기술
 
-HTML5 · CSS3 · Vanilla JavaScript · 직접 구성한 SVG/CSS 일러스트. 글꼴은 Google Fonts의 Noto Sans KR을 요청하며 글꼴 파일은 저장소에 포함하지 않습니다. 글꼴을 가져올 수 없으면 시스템 sans-serif를 사용합니다. 키보드 포커스·모바일 메뉴·움직임 줄이기 설정을 지원합니다. 분석 스크립트·외부 폼·결제 연동이 없습니다.
+HTML5 · CSS3 · Vanilla JavaScript. 글꼴은 Google Fonts의 Noto Sans KR을 요청하며 글꼴 파일은 저장소에 포함하지 않습니다. 글꼴을 가져올 수 없으면 시스템 sans-serif를 사용합니다. 키보드 포커스·모바일 메뉴·움직임 줄이기 설정을 지원합니다. 분석 스크립트·외부 폼·결제 연동이 없습니다.
+
+이미지: `images/` 폴더의 사진.
 
 ## 보는 주소
 
